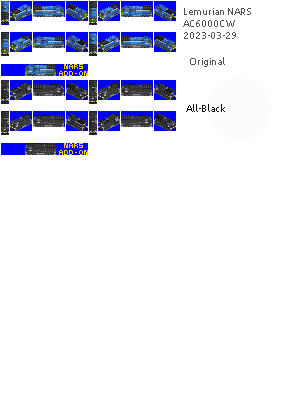
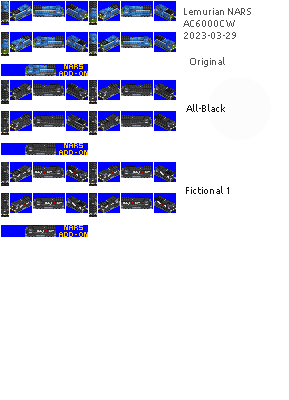
ac6000cw: Add Fictional 1 livery

Changed region(s): [[0.0, 0.39, 0.6228, 0.6], [0.7474, 0.45, 0.7785, 0.48], [0.6851, 0.45, 0.7163, 0.48]]

diff --git a/CHANGELOG.md b/CHANGELOG.md
@@ -13,6 +13,7 @@
    * Generic 1: Secondary color blob on primary color background.
       * Try yellow on dark green for an SNIM-like train.
 * Added All-Black livery to AC6000CW
+* Added Fictional 1 livery to AC6000CW
 
 ### 0.2.0 (2023-03-26)
 * Added three SD70ACe liveries:
